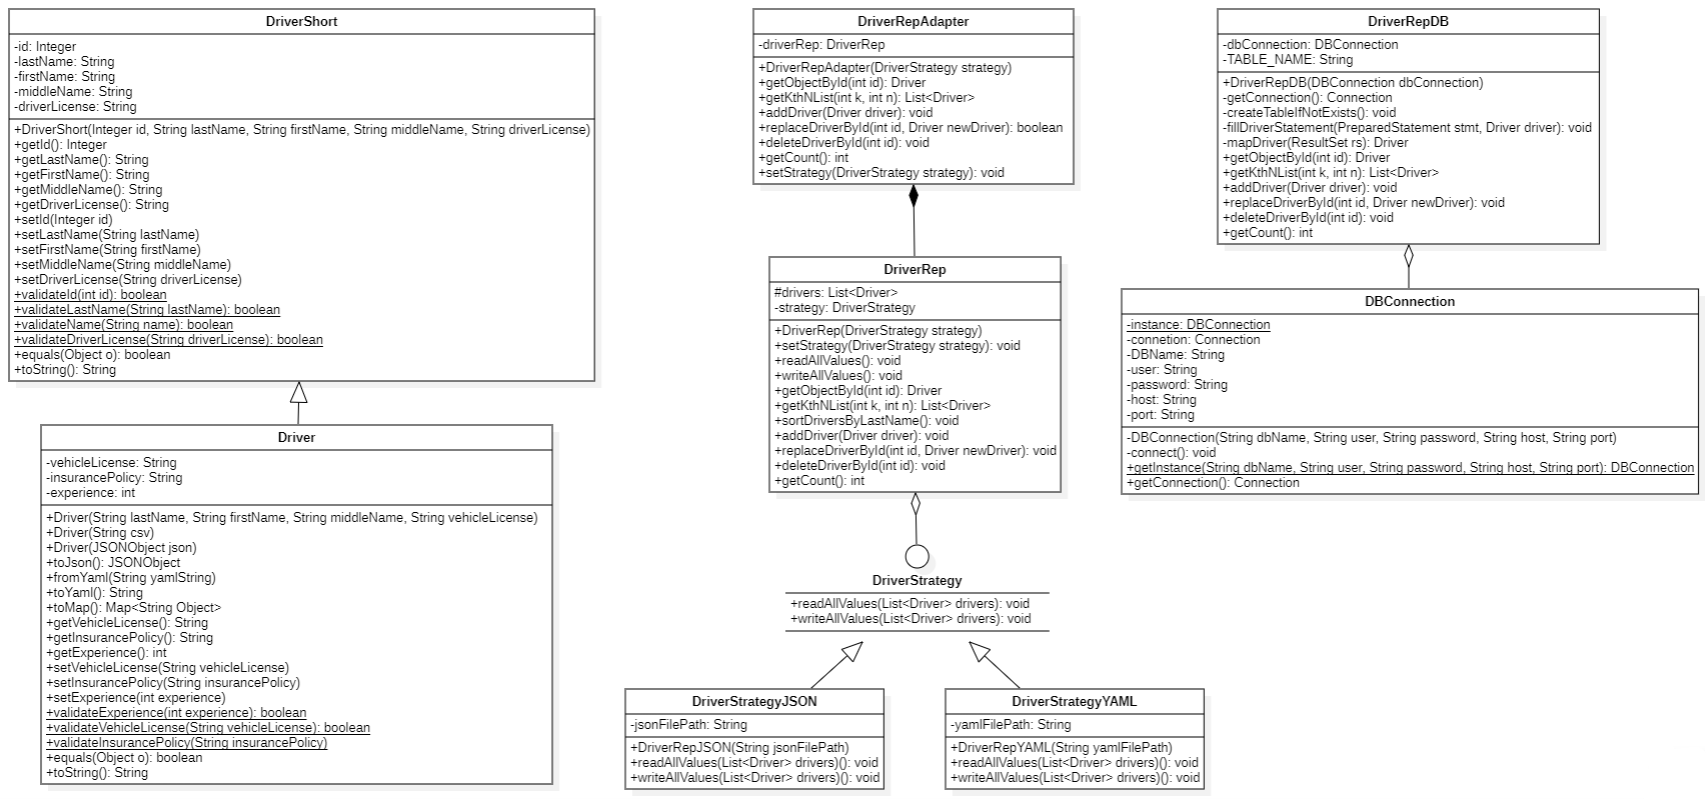
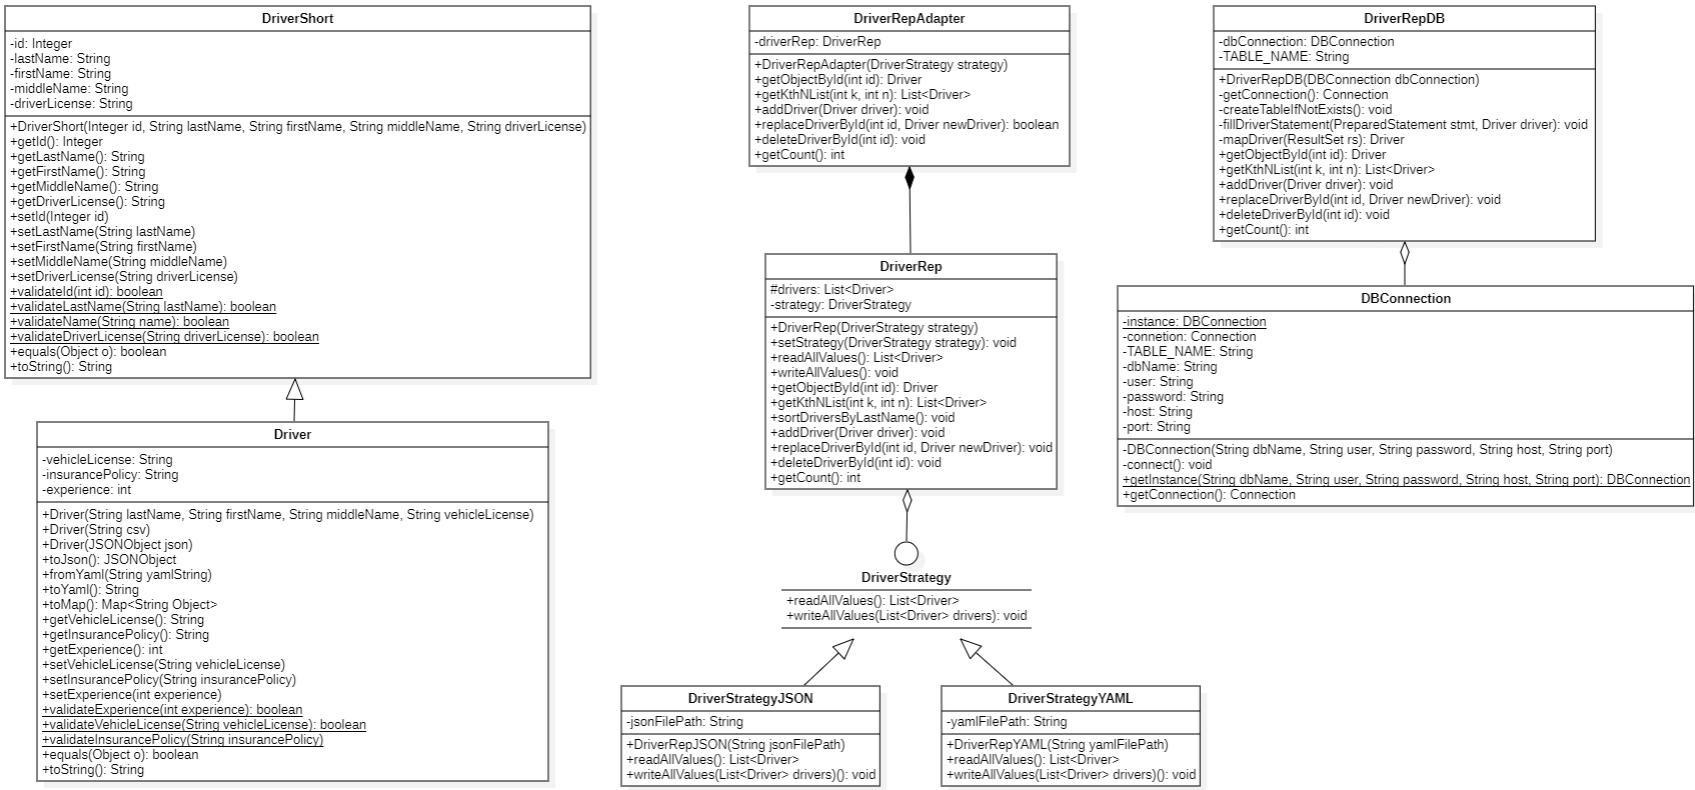
Update Lab2: small fixes

diff --git a/Project/DriverRepDB.java b/Project/DriverRepDB.java
@@ -5,40 +5,15 @@ import java.util.ArrayList;
 import java.util.List;
 
 public class DriverRepDB {
-    private final DBConnection dbConnection; // Делегация для БД
-    private final String TABLE_NAME = "drivers";
-
+    private DBConnection dbConnection; // Делегация для БД
+    private String TABLE_NAME = "drivers";
+    
     public DriverRepDB(DBConnection dbConnection) {
         this.dbConnection = dbConnection;
     }
 
     private Connection getConnection() throws SQLException {
         return dbConnection.getConnection(); // Делегация к DBConnection
-    }
-
-    // Метод для создания таблицы, если она не существует
-    private void createTableIfNotExists() {
-        String createTableSQL = String.format(
-                "CREATE TABLE IF NOT EXISTS %s (" +
-                        "id SERIAL PRIMARY KEY, " +
-                        "lastName VARCHAR(100) NOT NULL, " +
-                        "firstName VARCHAR(100) NOT NULL, " +
-                        "middleName VARCHAR(100), " +
-                        "driverLicense VARCHAR(50) UNIQUE NOT NULL, " +
-                        "vehicleLicense VARCHAR(50) NOT NULL, " +
-                        "insurancePolicy VARCHAR(50) NOT NULL, " +
-                        "experience INT NOT NULL CHECK (experience >= 0)" +
-                        ")",
-                TABLE_NAME
-        );
-
-        try (Connection conn = getConnection(); PreparedStatement stmt = conn.prepareStatement(createTableSQL)) {
-            stmt.execute();
-            System.out.println("Таблица \"" + TABLE_NAME + "\" проверена/создана.");
-        } catch (SQLException e) {
-            e.printStackTrace();
-            throw new RuntimeException("Ошибка при создании таблицы: " + TABLE_NAME);
-        }
     }
 
     // Методы для исправления повтора кода
@@ -101,7 +76,6 @@ public class DriverRepDB {
 
     // Добавление объекта с автоматическим назначением ID
     public void addDriver(Driver driver) {
-        createTableIfNotExists();
         String sql = "INSERT INTO " + TABLE_NAME + " (lastName, firstName, middleName, driverLicense, vehicleLicense, insurancePolicy, experience) VALUES (?, ?, ?, ?, ?, ?, ?) RETURNING id";
         try (Connection conn = getConnection(); PreparedStatement stmt = conn.prepareStatement(sql)) {
             fillDriverStatement(stmt, driver);

diff --git a/Project/DBConnection.java b/Project/DBConnection.java
@@ -2,17 +2,20 @@ package Project;
 
 import java.sql.Connection;
 import java.sql.DriverManager;
+import java.sql.PreparedStatement;
 import java.sql.SQLException;
 
 public class DBConnection {
     private static DBConnection instance; // ОДИН экземпляр класса
     private Connection connection;
 
-    private final String dbName;
-    private final String user;
-    private final String password;
-    private final String host;
-    private final String port;
+    private String TABLE_NAME = "drivers";
+
+    private String dbName;
+    private String user;
+    private String password;
+    private String host;
+    private String port;
 
     // Конструктор
     private DBConnection(String dbName, String user, String password, String host, String port) {
@@ -22,7 +25,34 @@ public class DBConnection {
         this.host = host;
         this.port = port;
         connect();
+        // Перенести создание таблицы createTableIfNotExists
+        createTableIfNotExists();
     }
+    // Метод для создания таблицы, если она не существует
+    private void createTableIfNotExists() {
+        String createTableSQL = String.format(
+                "CREATE TABLE IF NOT EXISTS %s (" +
+                        "id SERIAL PRIMARY KEY, " +
+                        "lastName VARCHAR(100) NOT NULL, " +
+                        "firstName VARCHAR(100) NOT NULL, " +
+                        "middleName VARCHAR(100), " +
+                        "driverLicense VARCHAR(50) UNIQUE NOT NULL, " +
+                        "vehicleLicense VARCHAR(50) NOT NULL, " +
+                        "insurancePolicy VARCHAR(50) NOT NULL, " +
+                        "experience INT NOT NULL CHECK (experience >= 0)" +
+                        ")",
+                TABLE_NAME
+        );
+
+        try (Connection conn = getConnection(); PreparedStatement stmt = conn.prepareStatement(createTableSQL)) {
+            stmt.execute();
+            System.out.println("Таблица \"" + TABLE_NAME + "\" проверена/создана.");
+        } catch (SQLException e) {
+            e.printStackTrace();
+            throw new RuntimeException("Ошибка при создании таблицы: " + TABLE_NAME);
+        }
+    }
+
 
     // Подключение к бд
     private void connect() {

diff --git a/Project/DriverRepAdapter.java b/Project/DriverRepAdapter.java
@@ -47,9 +47,4 @@ public class DriverRepAdapter {
     public int getCount() {
         return driverRep.getCount();
     }
-
-    // Установка новой стратегии
-    public void setStrategy(DriverStrategy strategy) {
-        driverRep.setStrategy(strategy);
-    }
 }
